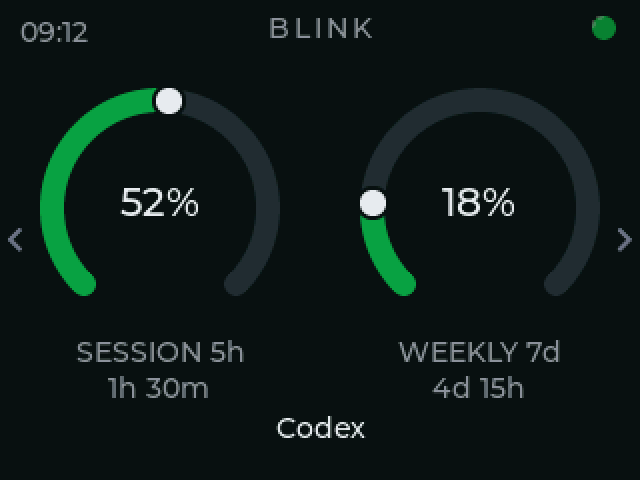
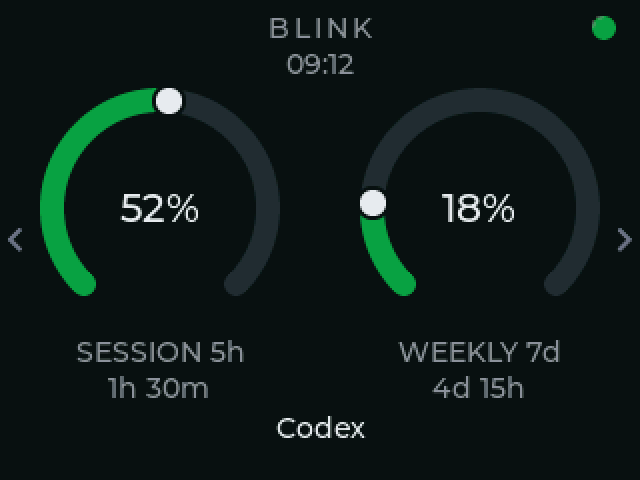
docs: the README says what you may do with BLINK, and its screens match the board
Four things were wrong or missing in the document customers read first.

It never said the project was open source. A reader could not tell whether the
firmware was available, whether building one was allowed, or what it cost. The
new Open source section answers all three in plain sentences: everything is
here, do what you like with it for yourself, do not sell it. The case files now
have somewhere to point -- the model is published on MakerWorld -- and the shop
link moved off the badge row to a heading under the photographs, where someone
looking to buy rather than build will actually find it.

The three panel screenshots were two firmware changes out of date. They showed
the clock in the top-left corner; the shipping firmware moved it under the
wordmark and gave that corner to the live-session pips. Regenerated with
tools/panel_render/render.sh, which compiles usage_view.c unchanged against
real LVGL, so "rendered by the shipping firmware's own drawing code" stays a
true sentence rather than an aspiration.

The captions were clipped, in both READMEs. GitHub's stylesheet sets
line-height:0 on <sub> -- the ordinary normalize rule -- so a <sub> alone in a
table cell gets a zero-height line box and hangs below the cell border, and one
that wraps draws its second line on top of its first. Measured on the rendered
page: cell 13px, caption 14px, 4px of overhang. The fix is a normal-size nbsp
left outside the <sub>, which restores the strut and keeps the 12px size; the
[…]

diff --git a/docs/README-full.md b/docs/README-full.md
@@ -18,19 +18,28 @@ Your 5-hour session and 7-day week, as two live dials you can glance at all day.
 
 <table>
   <tr>
-    <td width="33%"><img src="img/screen-claude.png" alt="The Claude page"><br><sub><b>Claude</b> - session &amp; weekly, with the countdown to each reset</sub></td>
-    <td width="33%"><img src="img/screen-codex.png" alt="The Codex page"><br><sub><b>Codex</b> - its own page, swipe or tap the name to switch</sub></td>
-    <td width="33%"><img src="img/screen-desktop.png" alt="Claude Desktop only"><br><sub><b>Claude Desktop alone</b> - a countdown when Desktop has a reset time, a rate when it does not</sub></td>
+    <td width="33%"><img src="img/screen-claude.png" alt="The Claude page: six coloured marks in the top-left corner, one per live session, the clock under the BLINK wordmark, and the session and weekly dials."></td>
+    <td width="33%"><img src="img/screen-codex.png" alt="The Codex page, with its own session and weekly dials."></td>
+    <td width="33%"><img src="img/screen-desktop.png" alt="Claude Desktop alone: the session dial shows a fill rate where a countdown would otherwise be."></td>
+  </tr>
+  <tr>
+    <td align="center"><sub><b>Claude</b></sub>&nbsp;</td>
+    <td align="center"><sub><b>Codex</b></sub>&nbsp;</td>
+    <td align="center"><sub><b>Desktop alone</b></sub>&nbsp;</td>
   </tr>
 </table>
 
-<sub>The three screens above are rendered from the shipping firmware's own drawing code (`tools/panel_render`), not mocked up.</sub>
+Session and weekly, the countdown to each reset, and the time under the wordmark.
+The marks in the top-left corner are the live sessions, one per session, coloured
+by what each is doing.
+
+*The three screens above are rendered from the shipping firmware's own drawing code (`tools/panel_render`), not mocked up.*
 
 ## What is Blink?
 
 Blink is a small desk display that shows how much of your Claude Code usage you've spent - the same numbers as the `/usage` command, but always in view. It reads your **5-hour session** limit and your **7-day weekly** limit and draws each as a dial, green while you have room, amber as you get close, red when it's nearly gone. Glance over, know where you stand, keep working.
 
-Beside the dials is a small pip telling you whether anything is waiting on you -- across every Claude Code and Codex session you have open, one light: amber the moment a session has finished or is asking permission, a green pulse while everything is still working, red when something is stuck or rate-limited. Under them, a countdown to each window's reset.
+Beside the dials is a small pip telling you whether anything is waiting on you - across every Claude Code and Codex session you have open, one light: amber the moment a session has finished or is asking permission, a green pulse while everything is still working, red when something is stuck or rate-limited. Under them, a countdown to each window's reset.
 
 It runs on a cheap (~$12) ESP32 touchscreen. Plug it into your computer, run the setup once, and it sits on your desk and keeps itself up to date.
 
@@ -48,11 +57,11 @@ Blink never sees a credential and never sends anything anywhere. It reads figure
 | **Codex CLI** | Both limits and both countdowns, on its own page | **Full** |
 | **claude.ai in a browser** | Nothing | **Not supported** |
 
-**How current the Desktop figure is.** BLINK never asks the server; it reads the sample Desktop last wrote. Measured over 1,672 samples on one Mac (July-August 2026): Desktop writes one every 5 minutes while it is being used, every 15 minutes in the background (occasionally 30), and immediately when its usage panel is opened. The daemon reads the file every minute, so the board is at most a minute behind Desktop, and Desktop is at most 5-15 minutes behind the server. A person watching the board while the app sits idle sees the figure move in 15-minute steps -- reported 2026-08-30 as "stuck on 16 %, then 21 %" -- which is the app's clock, not a fault.
+**How current the Desktop figure is.** BLINK never asks the server; it reads the sample Desktop last wrote. Measured over 1,672 samples on one Mac (July-August 2026): Desktop writes one every 5 minutes while it is being used, every 15 minutes in the background (occasionally 30), and immediately when its usage panel is opened. The daemon reads the file every minute, so the board is at most a minute behind Desktop, and Desktop is at most 5-15 minutes behind the server. A person watching the board while the app sits idle sees the figure move in 15-minute steps - reported 2026-08-30 as "stuck on 16 %, then 21 %" - which is the app's clock, not a fault.
 
 **Sleep.** The board pings the app every 10 s. Thirty seconds without an answer, on a board that has shown figures this boot and is not mid-update, means the computer is asleep: the screen plays a closing clip, loops a sleeping one, and plays an opening clip when the app answers again. Uninstall sends a `bye` first so a removed app shows "connecting" instead. Clips: `tools/make_sleepanim.py`; design: `docs/sleep-mode-design.md`.
 
-**Why Claude Desktop is only half.** The five-hour window has a real countdown: Claude Desktop's own Local Storage carries a reset time next to its percentage, refreshed within seconds of a turn. The seven-day window does not -- an exhaustive search in August 2026 (every JSON file the app writes, its LevelDB, Session Storage and IndexedDB stores, its caches and its preferences plist) found no seven-day reset time anywhere a chat-only customer's machine writes one. So BLINK remembers one, the first time any source reports it, and counts it forward a week at a time; that countdown is published only while nothing has contradicted it, and withdrawn the moment something does. Wherever a window has no countdown to show, the panel shows a **rate** instead (`+14%/h`) -- measured from readings actually taken, not a guessed reset time. The activity light needs Claude Code's hooks, which a machine without Claude Code does not have. `blink install` says all of this on a machine in that state rather than reporting four successful steps.
+**Why Claude Desktop is only half.** The five-hour window has a real countdown: Claude Desktop's own Local Storage carries a reset time next to its percentage, refreshed within seconds of a turn. The seven-day window does not - an exhaustive search in August 2026 (every JSON file the app writes, its LevelDB, Session Storage and IndexedDB stores, its caches and its preferences plist) found no seven-day reset time anywhere a chat-only customer's machine writes one. So BLINK remembers one, the first time any source reports it, and counts it forward a week at a time; that countdown is published only while nothing has contradicted it, and withdrawn the moment something does. Wherever a window has no countdown to show, the panel shows a **rate** instead (`+14%/h`) - measured from readings actually taken, not a guessed reset time. The activity light needs Claude Code's hooks, which a machine without Claude Code does not have. `blink install` says all of this on a machine in that state rather than reporting four successful steps.
 
 **Why claude.ai is not supported.** A browser extension was built to read usage from response headers and measured against the real site: 178 responses, none carrying a rate-limit header of any kind. There is nothing to read. It was removed rather than shipped as a feature that does nothing. [`docs/next-steps.md`](next-steps.md) §A has the measurement.
 
@@ -67,7 +76,7 @@ Blink never sees a credential and never sends anything anywhere. It reads figure
 | A remembered weekly boundary | a weekly reset time, once one has been learned from any of the sources above; published only while nothing contradicts it | nothing - learned automatically, never configured |
 | Codex CLI's own session log | both limits and reset times, for Codex | nothing - read if Codex is installed |
 
-**How each source is tested.** Claude Code: CI installs real releases (oldest supported, stable, latest, next) and checks the status-line contract is still there. Codex: CI reads the struct that defines `rate_limits` in Codex's own source at the latest release, and fails the day a field is renamed -- Codex will not write a log without an account, so the parser is pinned to a real captured log instead. Claude Desktop: a closed app no runner can launch; the parser is pinned to a real captured cache file, and `blink status` reports on the customer's machine whether today's file still parses.
+**How each source is tested.** Claude Code: CI installs real releases (oldest supported, stable, latest, next) and checks the status-line contract is still there. Codex: CI reads the struct that defines `rate_limits` in Codex's own source at the latest release, and fails the day a field is renamed - Codex will not write a log without an account, so the parser is pinned to a real captured log instead. Claude Desktop: a closed app no runner can launch; the parser is pinned to a real captured cache file, and `blink status` reports on the customer's machine whether today's file still parses.
 
 When two of them disagree, the most recently observed number wins - field by field, so a source that knows your reset time still supplies it even when a fresher one takes over the percentage. [`docs/multi-provider.md`](multi-provider.md) has the details.
 
@@ -76,7 +85,7 @@ When two of them disagree, the most recently observed number wins - field by fie
 ## What's in here
 
 | Path | What's there |
-|------|--------------|
+|---|---|
 | `firmware/` | The device firmware (Zephyr, C) - this is the product |
 | `firmware/src/ota.c` | The update engine: signed install + automatic rollback |
 | `pc/`, `claude_usage_bridge.py` | The USB bridge and its setup, shipped as one binary - this is how a board gets its numbers |
@@ -255,7 +264,7 @@ means both "Claude" and "never stamped", so an unstamped Claude board can be
 turned into a Codex one by anyone with a cable. A re-burn of the same edition
 passes and says so; a burn of the *other* edition fails and tells you what the
 unit already is. A unit programmed before the latch existed arrives **latched
-as Claude** the first time it boots this firmware -- every unit built before
+as Claude** the first time it boots this firmware - every unit built before
 it was a Claude unit, and the alternative was delivering all of them
 re-stampable by their owners. A bench board meant to become Codex needs its
 config partition erased first (`esptool.py erase_region 0x3b0000 0x30000`).
@@ -266,7 +275,7 @@ to reuse the last build.
 **What it flashes is not the release artifact.** `zephyr.signed.bin` is signed
 but not *confirmed*: its MCUboot trailer says "boot this once". That is right
 for OTA, where the image lands in slot 1 and the firmware confirms it after it
-proves itself, and wrong for a direct flash -- a board on the bench has no
+proves itself, and wrong for a direct flash - a board on the bench has no
 daemon and no network, never becomes healthy, and reverts at 90 seconds. On a
 blank unit that is invisible, because there is nothing to revert to; on a
 re-burn it silently undoes the flash minutes after the script printed PASS.
@@ -274,7 +283,7 @@ re-burn it silently undoes the flash minutes after the script printed PASS.
 So `tools/sign_confirmed.py` re-signs the same image with `--pad --confirm` and
 that is what goes to the board. It reads the signing parameters out of the
 build's own `build.ninja` rather than repeating them, and it checks the trailer
-it produced -- an image that comes back with `image_ok` unset fails the burn
+it produced - an image that comes back with `image_ok` unset fails the burn
 before esptool is called. Measured on hardware 2026-09-07: a confirmed image's
 uptime runs straight through the 90-second deadline, where the unconfirmed one
 rebooted.
@@ -299,18 +308,18 @@ the partition holds 512 KB.
 There is no flag to set: the partition **is** the flag. A unit that never had
 one written boots as an individual unit, and a burn *without* `--logo` erases
 the partition, so a re-burned board is an individual unit again. Nothing over
-USB can change it -- like the edition, it takes esptool with the board in
-bootloader mode -- but unlike the edition it is not write-once, because a logo
+USB can change it - like the edition, it takes esptool with the board in
+bootloader mode - but unlike the edition it is not write-once, because a logo
 is a fact about the customer, not the enclosure. OTA never touches it: the
 firmware slots and the settings partition are exactly where they were.
-Edition and logo are independent -- a company unit is still a Claude or a
+Edition and logo are independent - a company unit is still a Claude or a
 Codex one.
 
 ### Tested without a board
 
 `tests/ci/check_factory.sh` runs both scripts, unmodified, on every push: it
 puts stub `esptool.py` / `espefuse.py` / `espsecure.py` on the PATH that
-record their calls, and a fake `serial` module that plays a board -- it
+record their calls, and a fake `serial` module that plays a board - it
 replays a boot transcript on every reset and answers the edition message.
 Eleven scenarios cover what matters on a production line: the images and
 addresses of an individual burn and a company burn, that the logo partition
@@ -380,13 +389,13 @@ The things that were open before the first release, and how each was settled.
 | | Decision |
 |---|---|
 | **Name** | **BLINK.** The panel, the app (`blink`), its directory (`~/.blink`), the login service and this repository all say it. Earlier names (Clauge, "Claude usage") are gone. |
-| **Editions** | Two -- Claude and Codex -- from **one firmware image**, chosen by a write-once stamp at the factory (`tools/burn-claude.sh` / `tools/burn-codex.sh`). Never user-changeable; a unit from before the stamp existed arrives latched as Claude. |
+| **Editions** | Two - Claude and Codex - from **one firmware image**, chosen by a write-once stamp at the factory (`tools/burn-claude.sh` / `tools/burn-codex.sh`). Never user-changeable; a unit from before the stamp existed arrives latched as Claude. |
 | **Company units** | The same image plays a company logo (a still or a short clip) after the boot animation when the factory wrote one to the `logo` partition (`tools/burn.sh --logo`). No logo partition, no logo: individuals are the default, and a re-burn without `--logo` erases it. |
 | **One board per computer** | The app drives one BLINK. A second one attached is ignored; `--port` picks one deterministically. |
-| **What is supported** | Claude Code in a terminal or IDE extension: everything. Codex CLI: everything, on its own page. Claude Desktop alone: a five-hour countdown whenever Desktop is holding a reset time -- it keeps one only while a window is running and clears it in between, so the countdown comes and goes and the fill rate covers the gaps -- a weekly countdown once one has been learned, and no activity light. claude.ai in a browser: nothing. |
-| **Automatic app updates** | **Off** for the first release. The signed manifest carries the switch (`daemon.auto`), so it can be turned on for a later release -- and off again within minutes -- without touching any installed machine. |
+| **What is supported** | Claude Code in a terminal or IDE extension: everything. Codex CLI: everything, on its own page. Claude Desktop alone: a five-hour countdown whenever Desktop is holding a reset time - it keeps one only while a window is running and clears it in between, so the countdown comes and goes and the fill rate covers the gaps - a weekly countdown once one has been learned, and no activity light. claude.ai in a browser: nothing. |
+| **Automatic app updates** | **Off** for the first release. The signed manifest carries the switch (`daemon.auto`), so it can be turned on for a later release - and off again within minutes - without touching any installed machine. |
 | **What the app keeps on disk** | Exactly what the table under "What the installer changes" says, readable by the user alone, sent nowhere. |
-| **Not yet** | macOS notarisation (the binary is unsigned; Gatekeeper asks once). Apple Silicon runs the full suite and the real installer in CI, but has not yet been watched by a person. (Windows has: a real Windows 10 PC with a Hebrew user name, 2026-08-29 -- which found four things that CI's ASCII English runners could not, fixed in 1.0.3 and 1.0.4.) **Claude Desktop's cache location has only been seen on macOS**; on Windows (`%APPDATA%\Claude\`) and Linux (`~/.config/Claude/`) it is the Electron convention, and `blink status` prints the path it looked at so the first person beside a signed-in Desktop there can confirm it in one glance. |
+| **Not yet** | macOS notarisation (the binary is unsigned; Gatekeeper asks once). Apple Silicon runs the full suite and the real installer in CI, but has not yet been watched by a person. (Windows has: a real Windows 10 PC with a Hebrew user name, 2026-08-29 - which found four things that CI's ASCII English runners could not, fixed in 1.0.3 and 1.0.4.) **Claude Desktop's cache location has only been seen on macOS**; on Windows (`%APPDATA%\Claude\`) and Linux (`~/.config/Claude/`) it is the Electron convention, and `blink status` prints the path it looked at so the first person beside a signed-in Desktop there can confirm it in one glance. |
 
 ## Security &amp; privacy
 
@@ -402,7 +411,7 @@ your sessions need from you, across Claude Code and Codex together, worst one
 wins.
 
 | Dot | Meaning |
-|-----|---------|
+|---|---|
 | 🟢 green, pulsing | Everything is working; nothing needs you |
 | 🟠 amber | **Your turn** - a session has finished its answer (Claude or Codex), even if others are still working |
 | 🟠 amber, pulsing | A session is asking permission right now |
@@ -433,7 +442,7 @@ message text).
 Every line in that log carries the local date and time it was written. The
 file is capped at 4 MB and the four previous ones are kept beside it as
 `bridge.log.1` through `bridge.log.4`, so it uses at most 20 MB and holds
-something over a month on a busy machine -- one customer's reached 2 MB in a
+something over a month on a busy machine - one customer's reached 2 MB in a
 week, growing without any limit at all, before this existed. If the problem
 you are reporting is older than the log, send `bridge.log.1` too.
 

diff --git a/README.md b/README.md
@@ -1,6 +1,6 @@
 <div align="center">
 
-<img src="docs/img/brand/logo-wide.png" alt="BLINK" width="420">
+<a href="https://blink-buddy.com"><img src="docs/img/brand/logo-wide.png" alt="BLINK" width="420"></a>
 
 **Your Claude Code and Codex usage, as two live dials on your desk.**
 
@@ -13,6 +13,7 @@
   <img alt="Board: ESP32 CYD" src="https://img.shields.io/badge/board-ESP32%20%C2%B7%20CYD-3D444D?style=for-the-badge&labelColor=171B22&logo=espressif&logoColor=white">
   <img alt="Runs on macOS, Linux and Windows" src="https://img.shields.io/badge/runs%20on-macOS%20%C2%B7%20Linux%20%C2%B7%20Windows-3D444D?style=for-the-badge&labelColor=171B22">
   <img alt="Updates over the air" src="https://img.shields.io/badge/updates-over%20the%20air-3D444D?style=for-the-badge&labelColor=171B22">
+  <a href="LICENSE"><img alt="Licence: PolyForm Noncommercial 1.0.0" src="https://img.shields.io/badge/licence-noncommercial-3D444D?style=for-the-badge&labelColor=171B22"></a>
 </p>
 
 <table>
@@ -21,10 +22,14 @@
     <td align="center"><img src="docs/img/photos/codex-case-gauges.webp" alt="The Codex case, dials live" width="300"></td>
   </tr>
   <tr>
-    <td align="center"><sub><b>Claude edition</b></sub></td>
-    <td align="center"><sub><b>Codex edition</b></sub></td>
+    <td align="center"><sub><b>Claude edition</b></sub>&nbsp;</td>
+    <td align="center"><sub><b>Codex edition</b></sub>&nbsp;</td>
   </tr>
 </table>
+
+### Don't want to build one? &nbsp;[**blink-buddy.com**](https://blink-buddy.com)
+
+I build them, test them and post them.
 
 </div>
 
@@ -32,29 +37,62 @@
 
 BLINK is a small touchscreen that shows the same numbers as Claude Code's `/usage` command, always in view: your **5-hour session** and your **7-day week**, each as a dial that turns from green to amber to red, with a countdown to its reset. It plugs into your computer over USB, sets itself up in one command, and keeps itself updated.
 
+## Open source
+
+**BLINK is open source, and it is free.** Everything the device is made of is
+here: the firmware that draws the dials, the app that reads your usage, the
+build scripts, the tests. Nothing is held back, nothing is a trial, nothing
+expires. The board is an ESP32 "Cheap Yellow Display", about $12 anywhere, and
+the case is a 3D print - the files are on
+[MakerWorld](https://makerworld.com/en/models/3294736-blink-claude-code-codex-usage-monitor).
+
+**You can do anything you like with it, for yourself.** Build one. Build ten.
+Change it, rewrite it, put your own name on it. Give them to your friends. Use
+it at home, at school, in a club. You will never owe me anything for it.
+
+**The one thing you cannot do is sell it.** Not the device, not the software,
+not a product with this inside it. Making money out of BLINK is the only thing
+the licence forbids. If that is what you want to do, write to me and ask -
+the answer is often yes.
+
+And if you would rather not build one at all, I sell finished units, put
+together and tested by hand. That is what pays for the work that goes into
+this.
+
 ## Features
 
 - **Two dials, two countdowns.** Session and weekly limits, and the time until each one resets.
-- **An activity light.** Amber the moment any session -- Claude or Codex -- is waiting on you; a green pulse while everything is still working; red when a turn dies on an error -- a rate limit, most often.
-- **A page per provider.** Claude and Codex each get their own screen. Tap the name or swipe to switch; the needles move from one reading to the other.
+- **An activity light.** Amber the moment any session - Claude or Codex - is waiting on you; a green pulse while everything is still working; red when a turn dies on an error - a rate limit, most often.
+- **A page per provider.** Claude and Codex each get their own screen. Swipe to switch; the needles move from one reading to the other.
 - **It sleeps when your computer does.** About thirty seconds after the computer stops answering, the screen closes its eyes and dozes; it opens them the moment the computer is back. A tap while it sleeps shows the last figures.
-- **Claude Desktop too.** With Desktop alone the dials show percentages, a five-hour countdown whenever Desktop is holding a reset time, and a weekly countdown once one has been learned. Desktop keeps that reset time only while a window is running and clears it in between, so the countdown comes and goes; the fill rate covers the gaps. The dials follow Desktop's own refresh -- about every 5 minutes while you are using it, up to 15 when it sits idle -- where Claude Code updates them live.
+- **Claude Desktop too.** With Desktop alone the dials show percentages, a five-hour countdown whenever Desktop is holding a reset time, and a weekly countdown once one has been learned. Desktop keeps that reset time only while a window is running and clears it in between, so the countdown comes and goes; the fill rate covers the gaps. The dials follow Desktop's own refresh - about every 5 minutes while you are using it, up to 15 when it sits idle - where Claude Code updates them live.
 - **Nothing to sign in to.** It reads figures Claude Code and Codex have already written to disk. No credential, no network, nothing sent anywhere.
 - **Updates over the cable.** A new release asks on screen; one tap installs both the firmware and the app. Both halves are signed.
 - **Cheap, open hardware.** An ESP32 "Cheap Yellow Display" (~$12) and a 3D-printed case.
-- **Company units.** A unit built for a company shows its logo -- a still or a short clip -- after the boot animation, written once at the factory.
+- **Company units.** A unit built for a company shows its logo - a still or a short clip - after the boot animation, written once at the factory.
 
 ## The screens
 
 <table>
   <tr>
-    <td width="33%"><img src="docs/img/screen-claude.png" alt="The Claude page"><br><sub><b>Claude</b> - session and weekly, with the countdown to each reset</sub></td>
-    <td width="33%"><img src="docs/img/screen-codex.png" alt="The Codex page"><br><sub><b>Codex</b> - its own page, swipe or tap the name to switch</sub></td>
-    <td width="33%"><img src="docs/img/screen-desktop.png" alt="Claude Desktop only"><br><sub><b>Claude Desktop alone</b> - a countdown when Desktop has a reset time, a rate when it does not</sub></td>
+    <td width="33%"><img src="docs/img/screen-claude.png" alt="The Claude page: six coloured marks in the top-left corner, one per live session, the clock under the BLINK wordmark, and the session and weekly dials."></td>
+    <td width="33%"><img src="docs/img/screen-codex.png" alt="The Codex page, with its own session and weekly dials."></td>
+    <td width="33%"><img src="docs/img/screen-desktop.png" alt="Claude Desktop alone: the session dial shows a fill rate where a countdown would otherwise be."></td>
+  </tr>
+  <tr>
+    <td align="center"><sub><b>Claude</b></sub>&nbsp;</td>
+    <td align="center"><sub><b>Codex</b></sub>&nbsp;</td>
+    <td align="center"><sub><b>Desktop alone</b></sub>&nbsp;</td>
   </tr>
 </table>
 
-<sub>Rendered by the shipping firmware's own drawing code, not mocked up.</sub>
+Session and weekly, the countdown to each reset, and the time under the wordmark.
+The marks in the top-left corner are your live sessions - one per session,
+coloured by what each is doing. Claude and Codex each get a page of their own,
+and a swipe moves between them. With Claude Desktop alone there is often no reset
+time to count down to, so the session dial shows how fast it is filling instead.
+
+*Rendered by the shipping firmware's own drawing code, not mocked up.*
 
 ## Setup
 
@@ -87,9 +125,9 @@ Needs Claude Code 2.1.100 or newer. The installer changes one file, `~/.claude/s
 ~/.blink/bin/blink status
 ```
 
-That one command says whether the service is running, whether Claude Code and Codex are being read, and how old the numbers are. If the panel is dark or wrong, unplug the board and plug it back in first -- the app finds it again on its own. If that does not fix it, email **support@blink-buddy.com** with the output of `blink status` and the last lines of `~/.blink/bridge.log`; nothing in either is a secret.
+That one command says whether the service is running, whether Claude Code and Codex are being read, and how old the numbers are. If the panel is dark or wrong, unplug the board and plug it back in first - the app finds it again on its own. If that does not fix it, email **support@blink-buddy.com** with the output of `blink status` and the last lines of `~/.blink/bridge.log`; nothing in either is a secret.
 
-**If the board says the app is old.** The board and the app ship together, so normally they match. If they have come apart -- the board on a later version than the computer -- the board's own update screen cannot fix it, because the half that is behind is the half it cannot reach. `blink status` says so and names the cure:
+**If the board says the app is old.** The board and the app ship together, so normally they match. If they have come apart - the board on a later version than the computer - the board's own update screen cannot fix it, because the half that is behind is the half it cannot reach. `blink status` says so and names the cure:
 
 ```
 Board       COM25 (CH340) -- id 20500d33ff1c, firmware 1.3.2
@@ -97,7 +135,7 @@ Board       COM25 (CH340) -- id 20500d33ff1c, firmware 1.3.2
             run: blink update
 ```
 
-**On Windows, if the board never appears:** the board's USB chip needs a driver Windows does not ship, and the installer puts it in for you -- it is the one step that asks for the Windows permission prompt, and it only asks when there is something to install. If you skipped that prompt, or installed an older version, run:
+**On Windows, if the board never appears:** the board's USB chip needs a driver Windows does not ship, and the installer puts it in for you - it is the one step that asks for the Windows permission prompt, and it only asks when there is something to install. If you skipped that prompt, or installed an older version, run:
 
 ```
 %USERPROFILE%\.blink\bin\blink.exe driver
@@ -107,7 +145,7 @@ Board       COM25 (CH340) -- id 20500d33ff1c, firmware 1.3.2
 
 ## What it works with
 
-For Claude Desktop, the app learns usage by reading Claude Desktop's own local files on your machine, never anything else -- it only ever reads them, and nothing about your usage or your conversations ever leaves the machine.
+For Claude Desktop, the app learns usage by reading Claude Desktop's own local files on your machine, never anything else - it only ever reads them, and nothing about your usage or your conversations ever leaves the machine.
 
 | You use | You get |
 |---|---|
@@ -132,4 +170,10 @@ BLINK never sees a credential and never sends anything anywhere. It keeps the la
 - **[docs/windows-check.md](docs/windows-check.md)** - the ten-minute check a Windows release needs a person for
 - **[docs/fleet-testing.md](docs/fleet-testing.md)** - the one command that proves a release on three real desks and three real boards, and what a green run does and does not prove
 
-<div align="center"><sub>Firmware: Zephyr, C. App: Python, shipped as one binary. Board: ESP32-2432S028. <a href="LICENSE">MIT licensed</a>.</sub></div>
+<div align="center">
+<sub>Firmware: Zephyr, C. App: Python, one binary.</sub>&nbsp;<br>
+<sub>Board: ESP32-2432S028.</sub>&nbsp;<br>
+<sub>Source under <a href="LICENSE">PolyForm Noncommercial 1.0.0</a>.</sub>&nbsp;<br>
+<sub>Free to build for yourself. Never to sell.</sub>&nbsp;<br>
+<sub>Built units at <a href="https://blink-buddy.com">blink-buddy.com</a>.</sub>&nbsp;
+</div>
